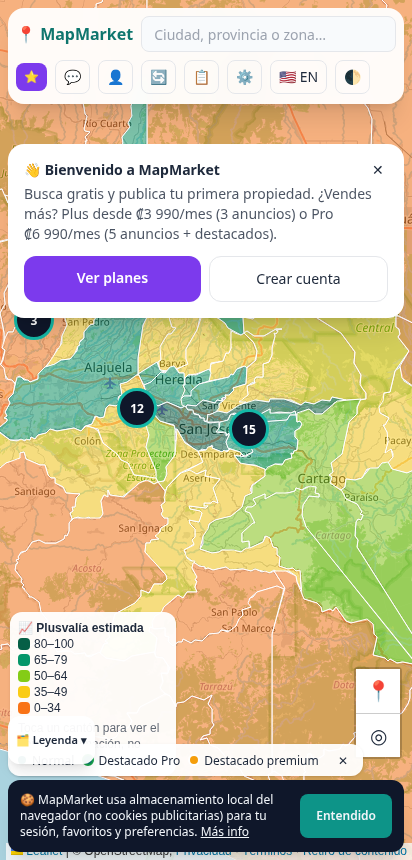
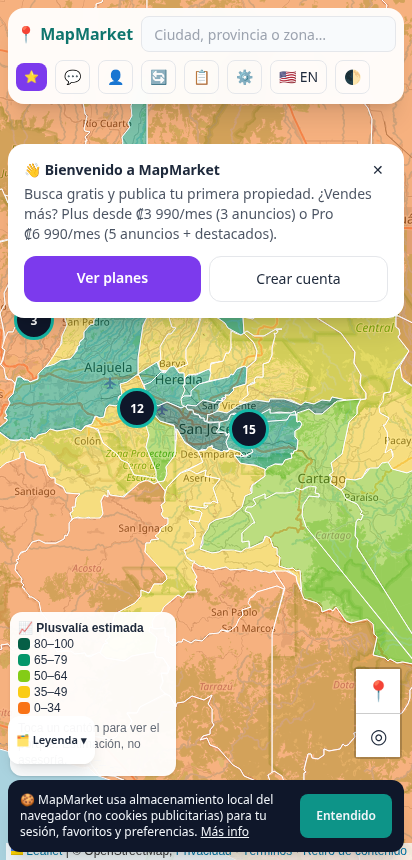
Pantalla de inicio con destacados (dorado → verde → recientes), Ver mapa; precio ONVO del destacado pagado

Changed region(s): [[0.2039, 0.8465, 0.9029, 0.907], [0.0, 0.8767, 0.0291, 0.907]]

diff --git a/js/inicio.js b/js/inicio.js
@@ -1,0 +1,31 @@
+/* MapMarket · pantalla de inicio: destacados (dorado → verde → recientes) antes del mapa. Se muestra en cada sesión. */
+(function () {
+  const Q = new URLSearchParams(location.search);
+  if (['p', 'editar', 'capa', 'destacado'].some(k => Q.has(k)) || sessionStorage.getItem('mm_inicio_visto') || localStorage.getItem('mm_inicio_off')) return;
+  const T = s => (window.MMT ? MMT(s) : s), E = s => String(s ?? '').replace(/[&<>"']/g, c => ({ '&': '&amp;', '<': '&lt;', '>': '&gt;', '"': '&quot;', "'": '&#39;' }[c]));
+  const ov = document.createElement('div'); ov.id = 'mmInicio'; ov.setAttribute('role', 'dialog'); ov.setAttribute('aria-label', 'MapMarket');
+  ov.className = 'fixed inset-0 z-[2600] overflow-y-auto bg-slate-50 dark:bg-slate-900 dark:text-white';
+  ov.innerHTML = `<div class="max-w-5xl mx-auto p-4 pb-28"><div class="sticky top-0 z-10 -mx-4 px-4 py-2 bg-slate-50/95 dark:bg-slate-900/95 backdrop-blur flex items-center gap-2"><b class="text-xl text-teal-700 dark:text-teal-300 whitespace-nowrap">📍 MapMarket</b><span class="text-xs opacity-70 flex-1 min-w-0">${T('propiedades en venta en Costa Rica')}</span><button id="mmIniMapa2" class="rounded-xl bg-teal-600 text-white font-bold px-4 whitespace-nowrap" style="min-height:44px">🗺 ${T('Ver mapa')}</button></div>
+    <h1 class="text-2xl font-extrabold mt-4">★ ${T('Propiedades destacadas')}</h1><p class="text-sm opacity-70">${T('Toca una para verla en el mapa.')}</p>
+    <div id="mmIniG" class="grid grid-cols-1 sm:grid-cols-2 lg:grid-cols-3 gap-3 mt-4"><div class="col-span-full text-center py-10 opacity-60">${T('Cargando…')}</div></div>
+    <label class="flex items-center gap-2 text-sm mt-6 opacity-80"><input id="mmIniOff" type="checkbox" class="w-5 h-5"> ${T('No mostrar de nuevo')}</label></div>
+    <div class="fixed inset-x-0 bottom-0 p-3 pb-24 sm:pb-3 bg-gradient-to-t from-slate-50 dark:from-slate-900"><button id="mmIniMapa" class="block w-full max-w-md mx-auto rounded-2xl bg-teal-600 hover:bg-teal-700 text-white text-lg font-bold shadow-xl" style="min-height:56px">🗺 ${T('Ver mapa')}</button></div>`;
+  const montar = () => document.body.appendChild(ov); document.body ? montar() : document.addEventListener('DOMContentLoaded', montar);
+  const cerrar = () => { sessionStorage.setItem('mm_inicio_visto', '1'); if (document.getElementById('mmIniOff').checked) localStorage.setItem('mm_inicio_off', '1'); ov.remove(); try { MapController.map.invalidateSize() } catch (e) { } };
+  ov.addEventListener('click', e => { if (e.target.closest('#mmIniMapa,#mmIniMapa2')) cerrar() });
+  document.addEventListener('keydown', function k(e) { if (e.key === 'Escape' && document.getElementById('mmInicio')) { cerrar(); document.removeEventListener('keydown', k) } });
+  function pintar() {
+    const tier = p => (window.MMTier ? MMTier(p) : 0), act = (App.all || []).filter(p => p.status === 'activa' && p.lat);
+    let L = act.filter(p => tier(p) > 0).sort((a, b) => tier(b) - tier(a) || String(b.date || '').localeCompare(String(a.date || '')));
+    const rec = act.filter(p => p.usuario && !tier(p)).sort((a, b) => String(b.date || '').localeCompare(String(a.date || '')));
+    if (L.length < 6) L = L.concat(rec.slice(0, 9 - L.length));
+    if (L.length < 3) L = L.concat(act.filter(p => p.demo).slice(0, 6 - L.length));
+    const g = document.getElementById('mmIniG'); if (!g) return;
+    g.innerHTML = L.map((p, i) => { const t = tier(p), img = (p.images || [])[0], emo = (typeof EMO !== 'undefined' && EMO[p.type]) || '🏠';
+      const bd = t === 2 ? `<span class="absolute top-2 left-2 text-xs font-bold rounded-full px-2 py-0.5 bg-amber-400 text-amber-950">★ ${T('Destacado premium')}</span>` : t === 1 ? `<span class="absolute top-2 left-2 text-xs font-bold rounded-full px-2 py-0.5 bg-green-600 text-white">★ ${T('Destacado Pro')}</span>` : p.demo ? `<span class="absolute top-2 left-2 text-xs font-bold rounded-full px-2 py-0.5 bg-pink-600 text-white">${T('Ejemplo')}</span>` : `<span class="absolute top-2 left-2 text-xs rounded-full px-2 py-0.5 bg-white/90 text-slate-800">${T('Reciente')}</span>`;
+      return `<button data-i="${i}" class="mmIniC text-left rounded-2xl overflow-hidden bg-white dark:bg-slate-800 shadow hover:shadow-lg ${t === 2 ? 'ring-2 ring-amber-400' : t === 1 ? 'ring-2 ring-green-600' : ''}"><div class="relative h-40 bg-slate-200 dark:bg-slate-700 grid place-items-center text-5xl">${img ? `<img src="${E(img)}" alt="" loading="lazy" class="absolute inset-0 w-full h-full object-cover">` : emo}${bd}</div>
+        <div class="p-3"><div class="text-lg font-extrabold text-teal-700 dark:text-teal-300">${E(DataService.full ? DataService.full(p) : p.price)}</div><div class="font-semibold line-clamp-1" data-noi18n>${E(p.title)}</div><div class="text-sm opacity-70 line-clamp-1">📍 ${E(p.location || p.province || '')}</div></div></button>` }).join('') || `<div class="col-span-full text-center py-10 opacity-70">${T('Aún no hay destacados. ¡Explora el mapa!')}</div>`;
+    g.querySelectorAll('.mmIniC').forEach(b => b.onclick = () => { const p = L[+b.dataset.i]; cerrar(); try { MapController.map.setView([p.lat, p.lon], 16); UI.showCard(p) } catch (e) { } });
+  }
+  window.addEventListener('mm-feat-ready', () => { pintar(); setTimeout(pintar, 2500); setTimeout(pintar, 6000) });
+})();

diff --git a/index.html b/index.html
@@ -1,6 +1,6 @@
 <!DOCTYPE html><html lang="es"><head><meta charset="utf-8"><link rel="manifest" href="manifest.webmanifest"><meta name="theme-color" content="#0d9488"><link rel="apple-touch-icon" href="icons/apple-touch-icon.png"><link rel="icon" type="image/png" href="icons/favicon.png"><script>if("serviceWorker" in navigator&&location.protocol==="https:")addEventListener("load",()=>navigator.serviceWorker.register("sw.js").catch(()=>{}))</script><meta name="viewport" content="width=device-width,initial-scale=1,viewport-fit=cover">
 <title>MapMarket · Bienes raíces en Costa Rica</title><meta name="description" content="Busca casas, apartamentos, lotes, remates judiciales y bienes adjudicados de bancos en Costa Rica sobre un mapa: filtros, calculadora de hipoteca, gastos de cierre y alertas."><link rel="canonical" href="https://mapmarketapp.com/"><meta name="robots" content="index,follow"><meta property="og:type" content="website"><meta property="og:site_name" content="MapMarket"><meta property="og:title" content="MapMarket · Propiedades en venta en Costa Rica en un mapa"><meta property="og:description" content="Busca casas, apartamentos, lotes, remates judiciales y bienes adjudicados de bancos en Costa Rica sobre un mapa: filtros, calculadora de hipoteca, gastos de cierre y alertas."><meta property="og:image" content="https://mapmarketapp.com/icons/og.png"><meta property="og:image:width" content="1200"><meta property="og:image:height" content="630"><meta property="og:url" content="https://mapmarketapp.com/index.html"><meta property="og:locale" content="es_CR"><meta name="twitter:card" content="summary_large_image"><meta name="twitter:image" content="https://mapmarketapp.com/icons/og.png">
-<script src="https://cdn.tailwindcss.com"></script><script src="js/config.js"></script><script src="js/auth.js"></script><script src="js/permisos.js"></script><script src="js/tiers.js" defer></script><script src="js/plusvalia.js" defer></script><script src="js/editar.js" defer></script><script src="js/mm-extra.js" defer></script><script src="js/features.js" defer></script><script src="js/social.js" defer></script><script src="js/publicar.js" defer></script><script src="js/extras.js" defer></script><script src="js/admin-capa.js" defer></script><script src="js/cerca.js" defer></script><script src="js/admin-gestion.js" defer></script><script src="js/refrescar.js" defer></script><script src="js/planes-app.js" defer></script><script src="js/dibujo.js" defer></script><script>tailwind.config={darkMode:'class'}</script>
+<script src="https://cdn.tailwindcss.com"></script><script src="js/config.js"></script><script src="js/auth.js"></script><script src="js/permisos.js"></script><script src="js/tiers.js" defer></script><script src="js/inicio.js" defer></script><script src="js/plusvalia.js" defer></script><script src="js/editar.js" defer></script><script src="js/mm-extra.js" defer></script><script src="js/features.js" defer></script><script src="js/social.js" defer></script><script src="js/publicar.js" defer></script><script src="js/extras.js" defer></script><script src="js/admin-capa.js" defer></script><script src="js/cerca.js" defer></script><script src="js/admin-gestion.js" defer></script><script src="js/refrescar.js" defer></script><script src="js/planes-app.js" defer></script><script src="js/dibujo.js" defer></script><script>tailwind.config={darkMode:'class'}</script>
 <link rel="stylesheet" href="https://unpkg.com/leaflet@1.9.4/dist/leaflet.css"><link rel="stylesheet" href="https://unpkg.com/leaflet.markercluster@1.5.3/dist/MarkerCluster.css"><link rel="stylesheet" href="https://unpkg.com/leaflet-draw@1.0.4/dist/leaflet.draw.css">
 <style>html,body,#map{height:100%;margin:0}
 .pb{background:#0f766e;color:#fff;font:600 11px system-ui,sans-serif;padding:2px 7px;border-radius:10px;white-space:nowrap;box-shadow:0 1px 4px #0007;border:1.5px solid #fff;transform:translate(-50%,-50%);display:inline-block;cursor:pointer}

diff --git a/sw.js b/sw.js
@@ -2,7 +2,7 @@
    - Nunca intercepta Supabase, Tilopay, WhatsApp ni peticiones que no sean GET.
    - HTML y data/*.json: red primero (datos frescos), caché solo si no hay conexión.
    - Estáticos propios y CDNs (Tailwind, Leaflet, teselas OSM): caché con revalidación. */
-const V = 'mm-v17', SHELL = ['./', 'js/notif.js', 'js/tiers.js', 'js/plusvalia.js', 'js/editar.js', 'js/mm-extra.js', 'js/i18n.js', 'data/i18n/en.json', 'data/faq_en.json', 'index.html', 'login.html', 'planes.html', 'cuenta.html', 'confirmar.html', 'guias.html', 'mensajes.html', 'privacidad.html', 'terminos.html', 'offline.html', 'eliminar-cuenta.html', 'admin.html', '404.html', 'js/publicar.js', 'js/extras.js', 'js/admin-capa.js', 'js/cerca.js', 'js/permisos.js', 'js/admin-gestion.js', 'js/refrescar.js', 'js/planes-app.js', 'js/dibujo.js', 'js/datos.js', 'data/cr_division.json', 'js/features.js', 'js/social.js', 'js/config.js', 'js/auth.js', 'manifest.webmanifest', 'icons/icon-192.png'];
+const V = 'mm-v18', SHELL = ['./', 'js/notif.js', 'js/tiers.js', 'js/inicio.js', 'js/plusvalia.js', 'js/editar.js', 'js/mm-extra.js', 'js/i18n.js', 'data/i18n/en.json', 'data/faq_en.json', 'index.html', 'login.html', 'planes.html', 'cuenta.html', 'confirmar.html', 'guias.html', 'mensajes.html', 'privacidad.html', 'terminos.html', 'offline.html', 'eliminar-cuenta.html', 'admin.html', '404.html', 'js/publicar.js', 'js/extras.js', 'js/admin-capa.js', 'js/cerca.js', 'js/permisos.js', 'js/admin-gestion.js', 'js/refrescar.js', 'js/planes-app.js', 'js/dibujo.js', 'js/datos.js', 'data/cr_division.json', 'js/features.js', 'js/social.js', 'js/config.js', 'js/auth.js', 'manifest.webmanifest', 'icons/icon-192.png'];
 self.addEventListener('install', e => { e.waitUntil(caches.open(V).then(c => c.addAll(SHELL)).catch(() => {})); self.skipWaiting() });
 self.addEventListener('activate', e => { e.waitUntil(caches.keys().then(k => Promise.all(k.filter(x => x !== V).map(x => caches.delete(x)))).then(() => self.clients.claim())) });
 const NO = /supabase\.co|onvopay|tilopay|wa\.me|whatsapp|nominatim|overpass|api\./i;
